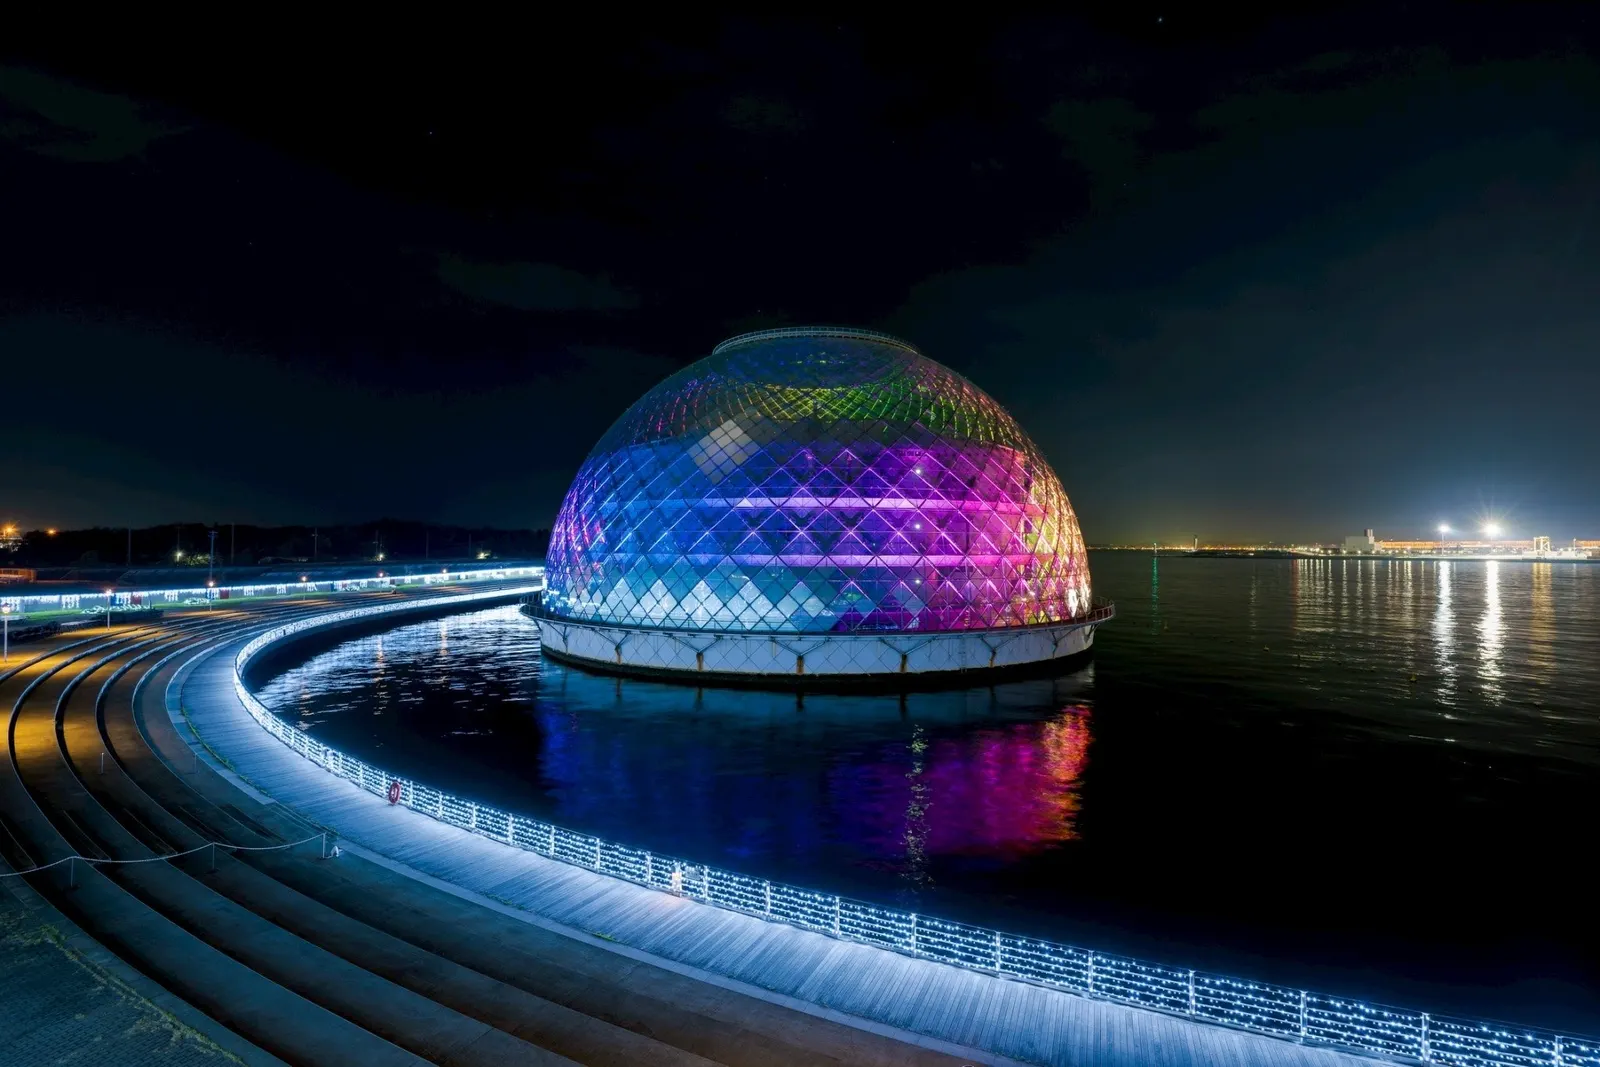
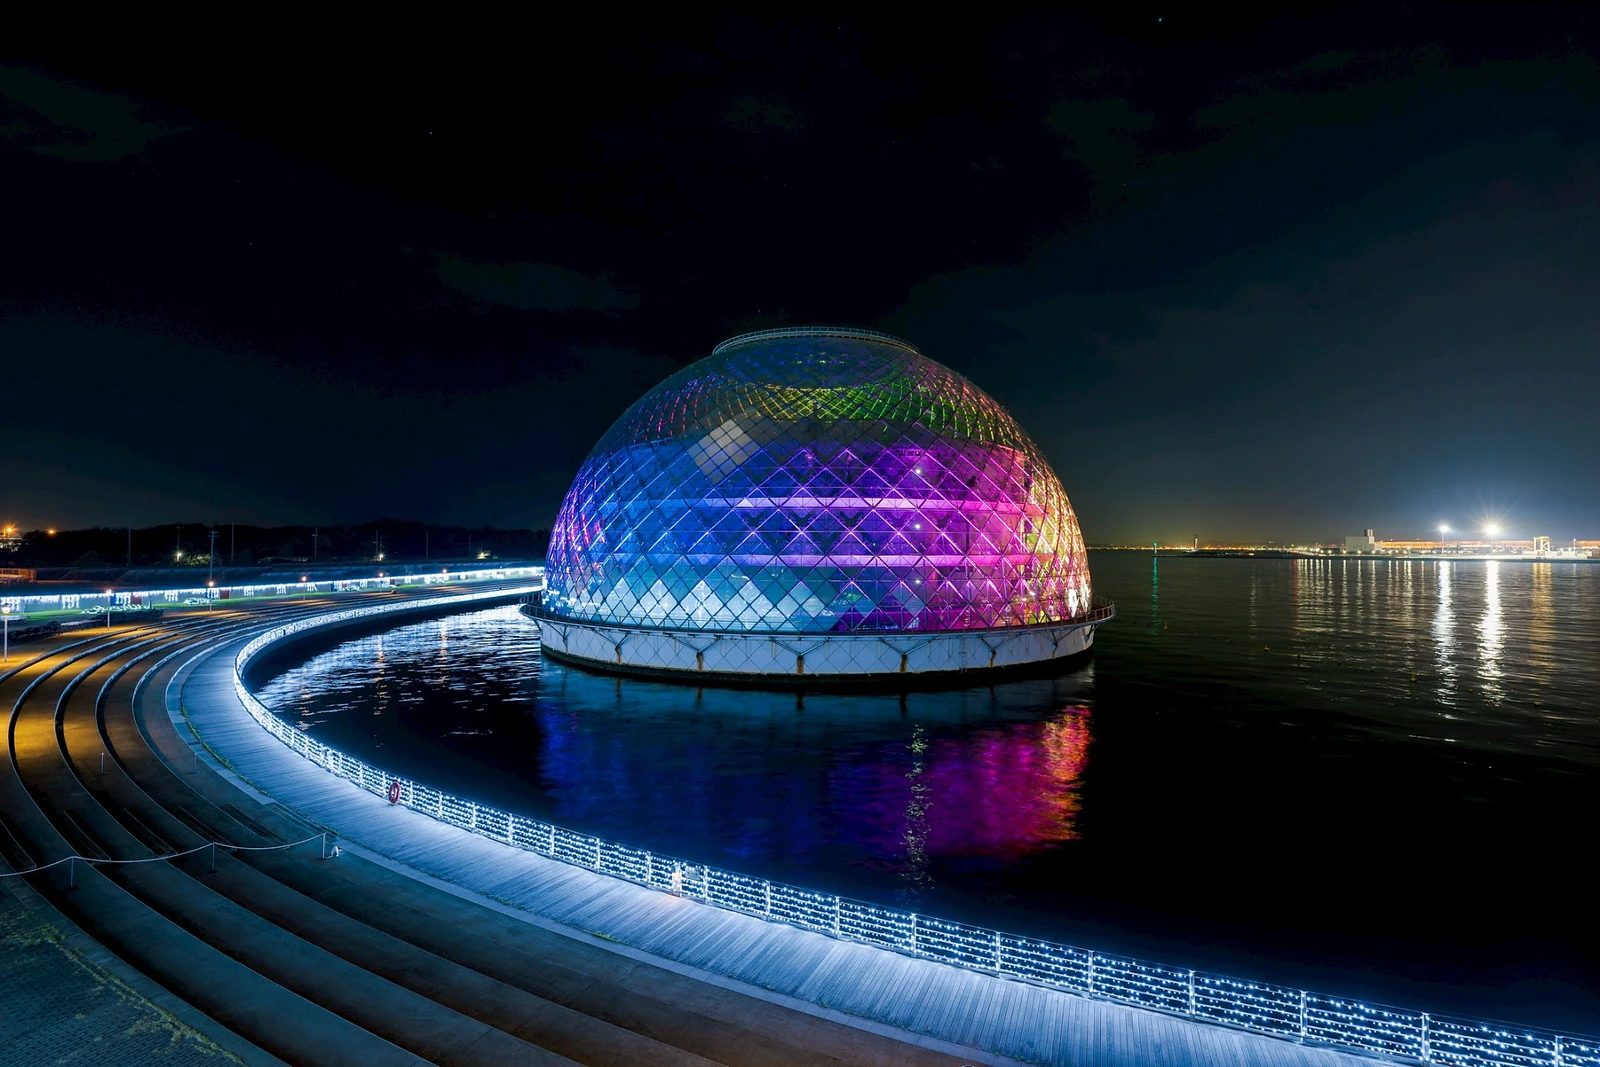
Home hero image quality: full-size sources (up to 3200 px, JPEG 93, light sharpening on clean shots), WebP 90 with more sizes for hero photos, gentler zoom, no colour-muting filter

diff --git a/src/app/globals.css b/src/app/globals.css
@@ -378,7 +378,7 @@ html[lang="ja"] .contact-band-title { font-size: clamp(32px, 5vw, 80px); line-he
 .hero-img .hero-live img.hero-live-led { animation: ledShift 16s ease-in-out infinite alternate; }
 /* twinkling lights in the sky */
 .hero-live i { position: absolute; width: 3px; height: 3px; border-radius: 50%; background: #fff; box-shadow: 0 0 8px 2px rgba(214, 236, 255, .55); opacity: 0; animation: twinkle 6s ease-in-out infinite; }
-@keyframes heroDrift { from { transform: scale(1.07) translate(1%, .5%); } to { transform: scale(1.02) translate(-.8%, -.4%); } }
+@keyframes heroDrift { from { transform: scale(1.04) translate(.6%, .3%); } to { transform: scale(1.01) translate(-.5%, -.3%); } }
 @keyframes ledShift { 0% { filter: saturate(.9) contrast(1.05) hue-rotate(0deg); } 50% { filter: saturate(1.15) contrast(1.05) hue-rotate(-50deg); } 100% { filter: saturate(1) contrast(1.05) hue-rotate(40deg); } }
 @keyframes twinkle { 0%, 100% { opacity: 0; scale: .5; } 50% { opacity: .9; scale: 1; } }
 @media (max-width: 768px) { .hero-live-water { filter: none; } }
@@ -407,12 +407,14 @@ html[lang="ja"] .sec-title { font-size: clamp(28px, 3.4vw, 52px); }
    still underneath is the first shot. Each shot drifts and zooms the whole time it shows. */
 .hero-film { position: absolute; inset: 0; }
 .hero-shot { position: absolute; inset: 0; overflow: hidden; opacity: 0; animation: heroShot 28s linear calc(var(--k) * 7s) infinite both; }
-.hero-shot:nth-child(2) { --dx: -3%; }
-.hero-shot:nth-child(3) { --dx: 2.5%; --dy: -2%; }
+.hero-shot:nth-child(2) { --dx: -1.6%; }
+.hero-shot:nth-child(3) { --dx: 1.4%; --dy: -1%; }
 .hero-img .hero-shot img { width: 100%; height: 100%; object-fit: cover; transform: none; animation: heroShotMove 28s linear calc(var(--k) * 7s) infinite both; }
 @keyframes heroShot { 0% { opacity: 0; } 9% { opacity: 1; } 25% { opacity: 1; } 34% { opacity: 0; } 100% { opacity: 0; } }
-@keyframes heroShotMove { 0% { transform: scale(1.06) translate(0, 0); } 34% { transform: scale(1.18) translate(var(--dx, 2%), var(--dy, 1.5%)); } 100% { transform: scale(1.18) translate(var(--dx, 2%), var(--dy, 1.5%)); } }
+@keyframes heroShotMove { 0% { transform: scale(1.02) translate(0, 0); } 34% { transform: scale(1.08) translate(var(--dx, 1.2%), var(--dy, .8%)); } 100% { transform: scale(1.08) translate(var(--dx, 1.2%), var(--dy, .8%)); } }
 @media (prefers-reduced-motion: reduce) { .hero-film { display: none; } }
+/* home hero photos at full colour (the general hero filter mutes them) */
+.hero-v2 .hero-img img { filter: none; }
 
 /* ---------- Home programme carousel (ProgrammeCarousel) ----------
    Square slots side by side; the track is centred on slot --i. The middle photo is full
